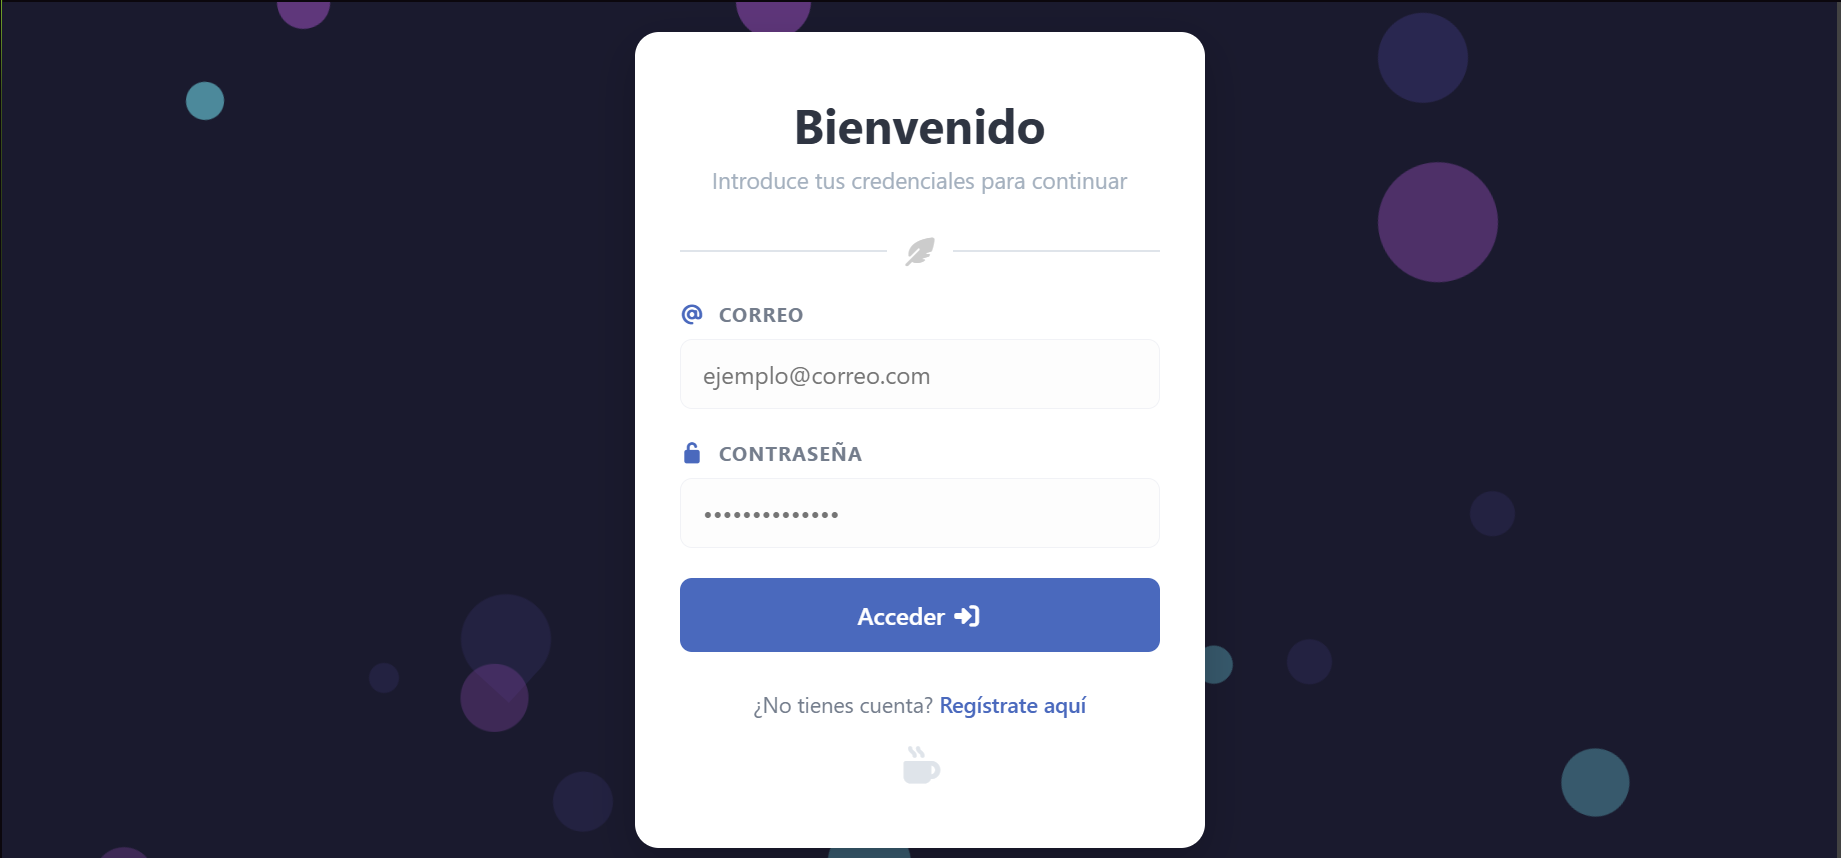
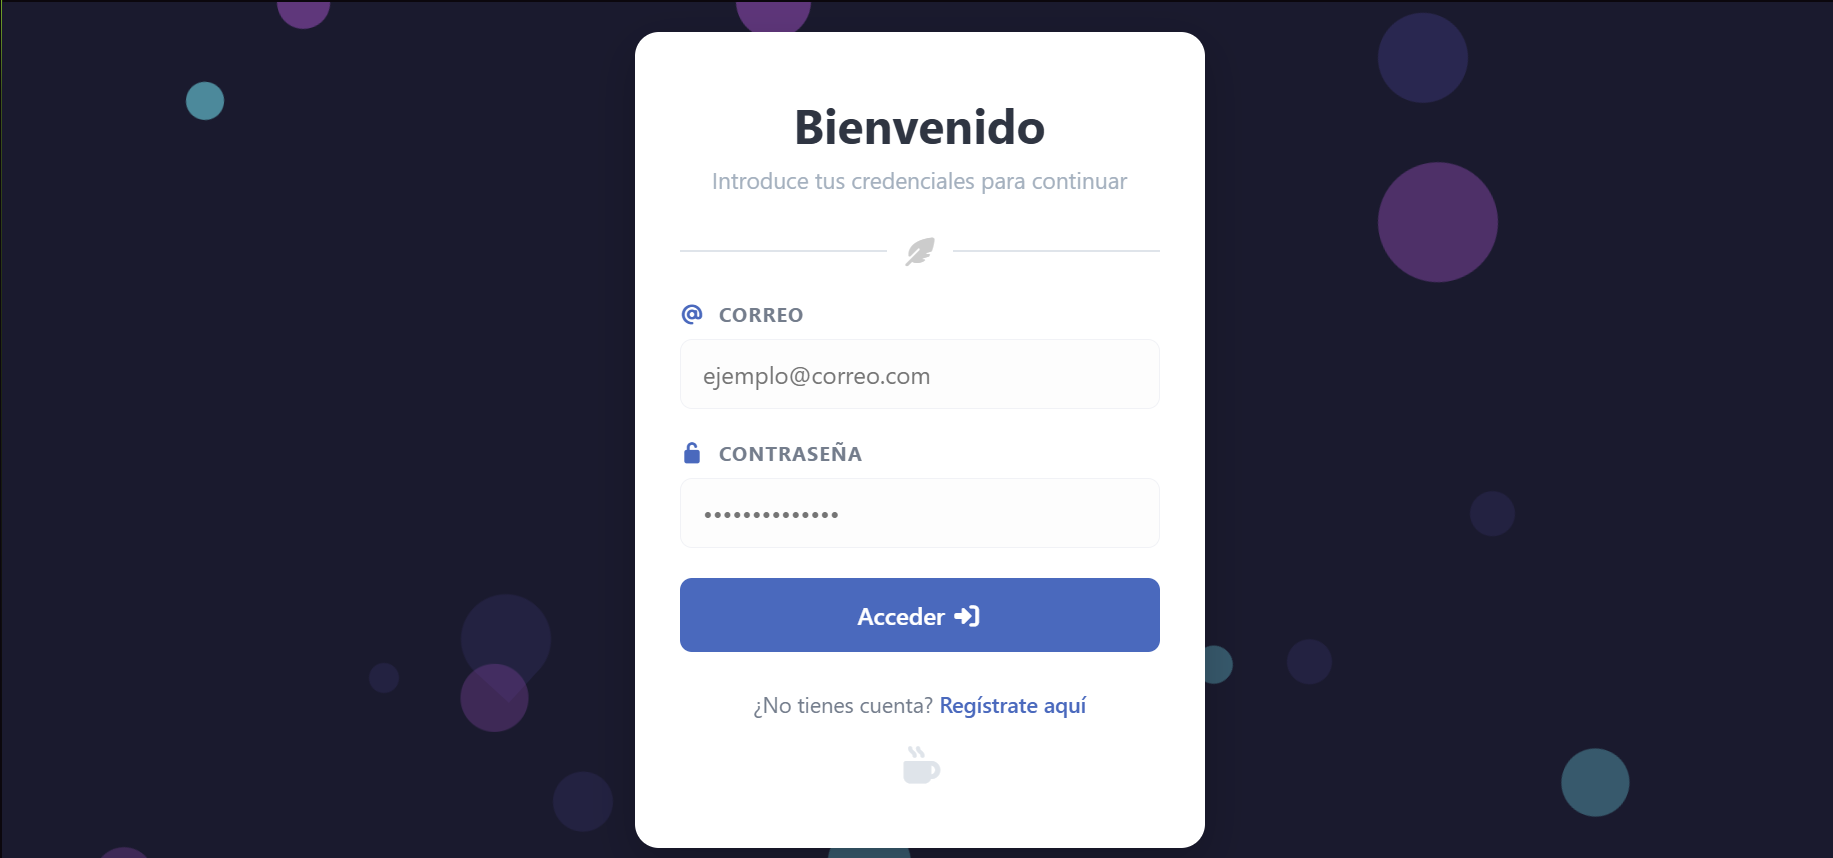
docs: cambios en los tamaños de algunas imágenes, cambio en un párrafo del readme

diff --git a/README.md b/README.md
@@ -1,8 +1,7 @@
 # RemindMe
 
-> RemindMe es una herramienta digital que te permite capturar y organizar información, ideas y conocimiento mediante notas y etiquetas que ayudan a identificar y relacionar temas.
-
-> Enfocada en el uso individual, te permite almacenar material subjetivo, tareas, notas de reuniones, resúmenes de libros, estrófas de canciones, etc.
+RemindMe es una herramienta digital que te permite capturar y organizar información, ideas y conocimiento mediante notas y etiquetas que ayudan a identificar y relacionar temas.
+Enfocada en el uso individual, te permite almacenar material subjetivo, tareas, notas de reuniones, resúmenes de libros, estrófas de canciones, etc.
 
 ## Funcionalidades
 
